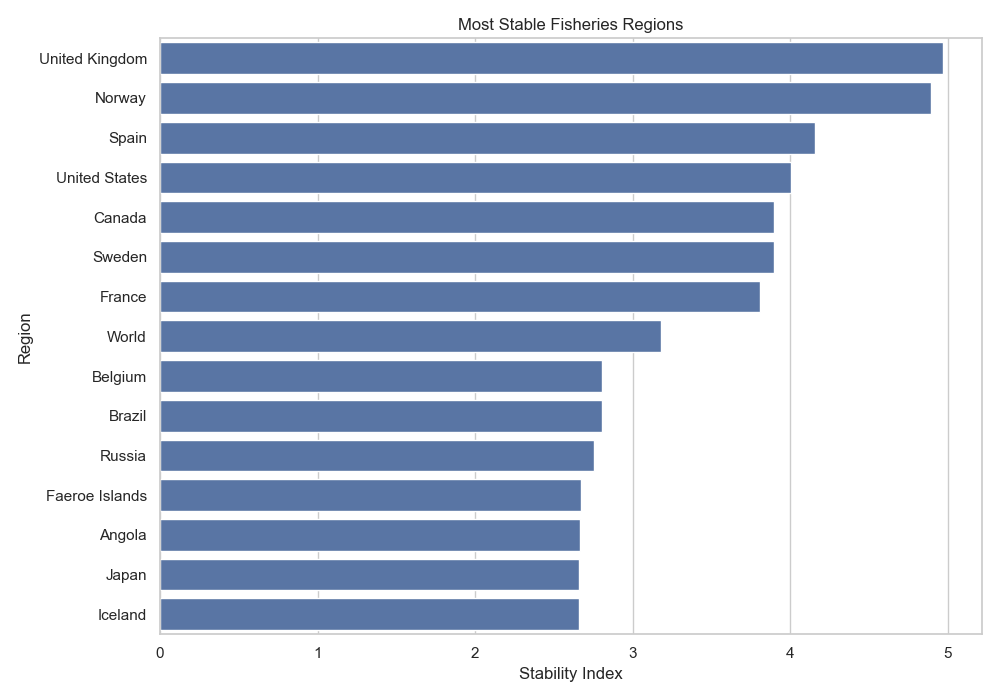
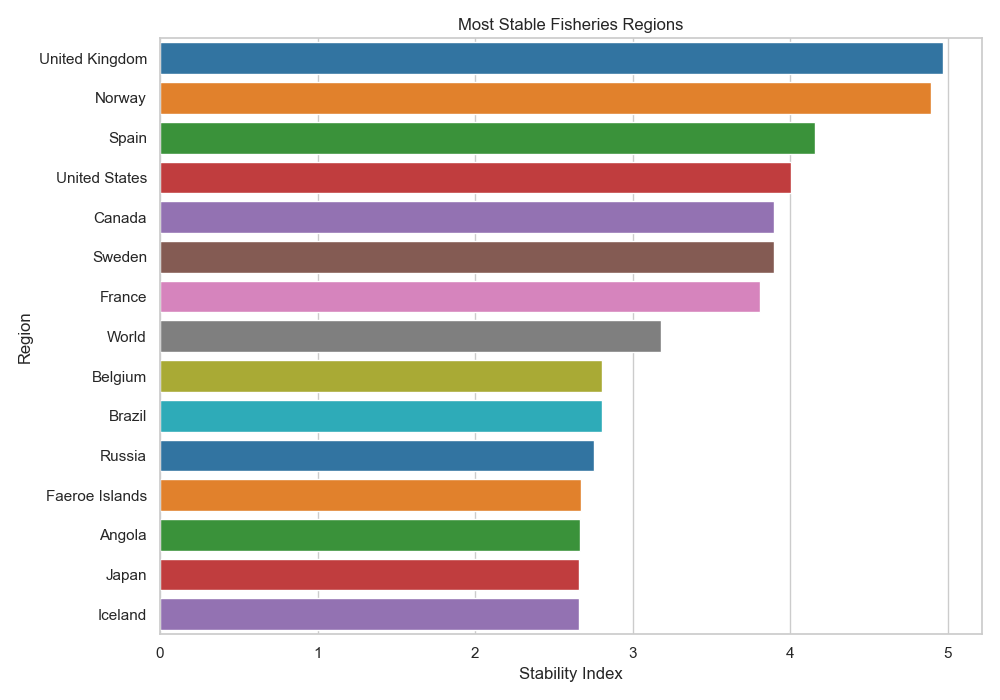
hue and pallete

diff --git a/scripts/05_plots.py b/scripts/05_plots.py
@@ -70,7 +70,7 @@ top_regions = (
 )
 
 plt.figure(figsize=(10,6))
-top_regions.plot(kind="bar")
+top_regions.plot(kind="bar",)
 
 plt.title("Top 10 Fisheries Producing Regions")
 plt.xlabel("Region")
@@ -88,7 +88,8 @@ plt.figure(figsize=(8,6))
 sns.histplot(
     metrics["catch_variability"],
     bins=30,
-    kde=True
+    kde=True,
+    palette = "paired"
 )
 
 plt.title("Distribution of Catch Variability Across Regions")
@@ -105,7 +106,8 @@ plt.figure(figsize=(9,7))
 sns.scatterplot(
     data=metrics,
     x="catch_trend_index",
-    y="stability_index"
+    y="stability_index",
+    palette= "tab10",hue="stability_index",legend=False
 )
 
 plt.axvline(1, linestyle="--")
@@ -124,7 +126,8 @@ plt.figure(figsize=(10,6))
 sns.scatterplot(
     data=metrics,
     x="catch_trend_index",
-    y="consumption_pressure"
+    y="consumption_pressure",
+    palette="tab10",hue="consumption_pressure",legend=False
 )
 
 # sns.boxplot(
@@ -149,7 +152,9 @@ plt.figure(figsize=(10,7))
 sns.barplot(
     data=stable,
     x="stability_index",
-    y="location"
+    y="location",
+    palette="tab10",hue="location",legend=False
+
 )
 
 plt.title("Most Stable Fisheries Regions")
